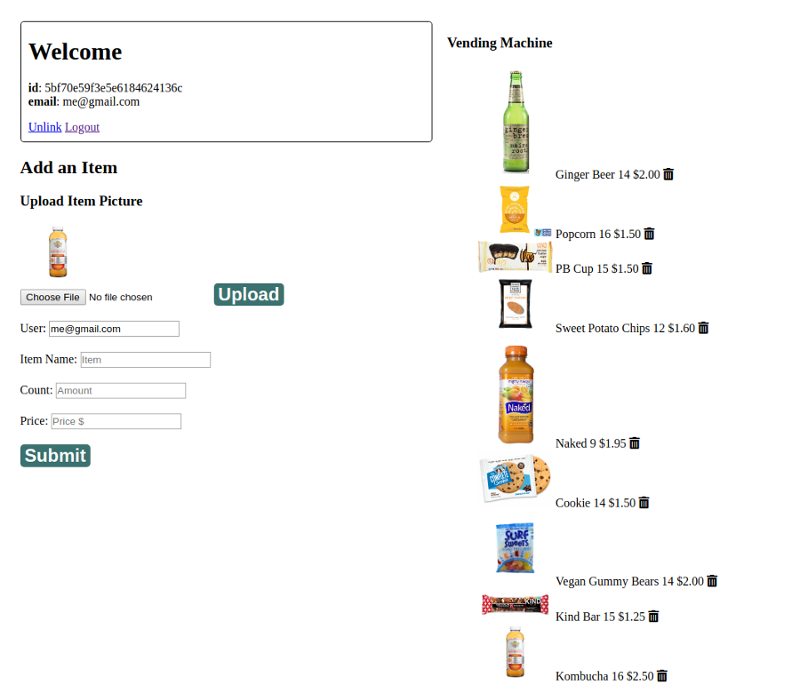
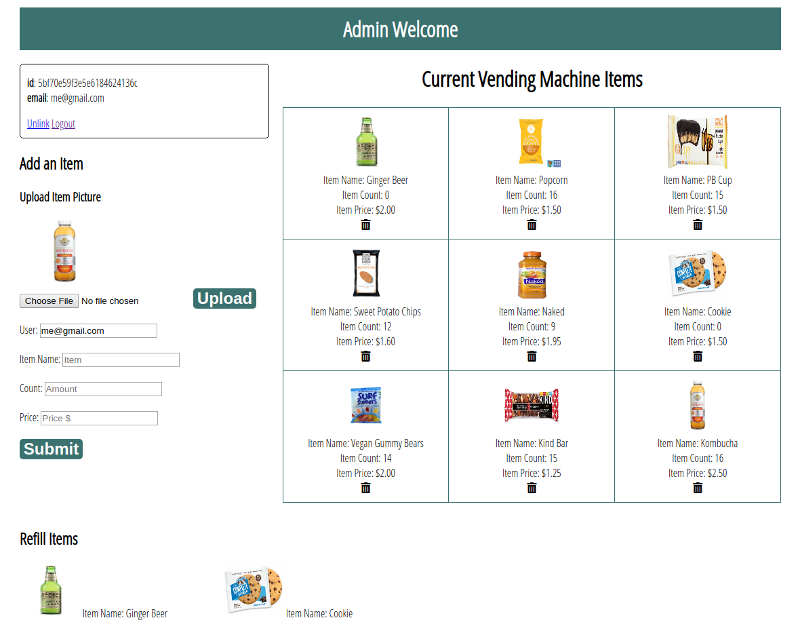
complete and working

diff --git a/public/css/profile.css b/public/css/profile.css
@@ -1,14 +1,23 @@
 body{
-  margin:3%;
+  margin:1% 3%;
+  font-family: 'Open Sans Condensed', sans-serif;
 }
 
-img{
-  width: 100px;
+.itemUpdate img{
+  height:100px;
+}
+
+#welcome{
+  background-color: rgb(59,114,111);
+  text-align: center;
+  color: white;
+  padding: 10px 0;
+  margin:0 0 20px 0;
 }
 
 .container{
   display: grid;
-  grid-template-columns: 1fr 1fr;
+  grid-template-columns: 1fr 2fr;
   grid-gap: 20px;
 }
 
@@ -27,8 +36,34 @@ img{
   margin:20px 0;
 }
 
+#cV{
+  margin-top:0;
+  text-align: center;
+}
+
+.itemList{
+  display: grid;
+  grid-template-columns: 1fr 1fr 1fr;
+  grid-gap: 1px;
+  background-color: rgb(59,114,111);
+  padding:1px;
+  text-align: center;
+  
+}
+
 .itemList li{
   list-style: none;
+  background-color: white;
+  padding: 10px 0;
+}
+
+.itemList span{
+  display: block;
+}
+
+.itemList img {
+  height: 80px;
+  width:90px;
 }
 
 button, .btnN{
@@ -43,4 +78,18 @@ button, .btnN{
 button:hover, .btnN:hover{
   color: white;
   background-color: black;
+}
+
+.refill{
+  display: flex;
+  flex-wrap: nowrap;
+}
+
+.refill section{
+  width:300px;
+}
+
+.refill img{
+  height: 80px;
+  width:90px;
 }

diff --git a/public/css/style.css b/public/css/style.css
@@ -44,7 +44,7 @@ main{
 img{
   width: 80%;
   height: 80%;
-  object-fit: scale-down;;
+  object-fit: scale-down;
 }
 
 /***************************************

diff --git a/README.md b/README.md
@@ -1,2 +1,26 @@
 # Fullstack-Vending-Machine-App
 Fullstack Vending Machine App
+
+# Public Client Side Page 
+![alt tag](screen.png)
+
+# Logged in Administrator Profile Page
+![alt tag](server.png)
+
+## How It's Made:
+
+**Tech used:** HTML5, CSS3, JavaScript, Node.js, Mongodb, Express, EJS.
+
+
+## Lessons Learned:
+Used Express framework for Node.js to make get, post, put, delete http requests. Learned how to connect a Mongodb database to my application and display the data back to user with EJS (Embedded Javascript templating) that generated my HTML.
+
+
+## Examples:
+Fullstack Barista App
+https://github.com/ericamendez/Fullstack-Barista-App
+
+Fullstack Anime Forum
+https://github.com/ericamendez/Fullstack-Anime-Forum
+
+Complex NASA API https://github.com/ericamendez/complex-nasa-bootcamp2018c-week07
